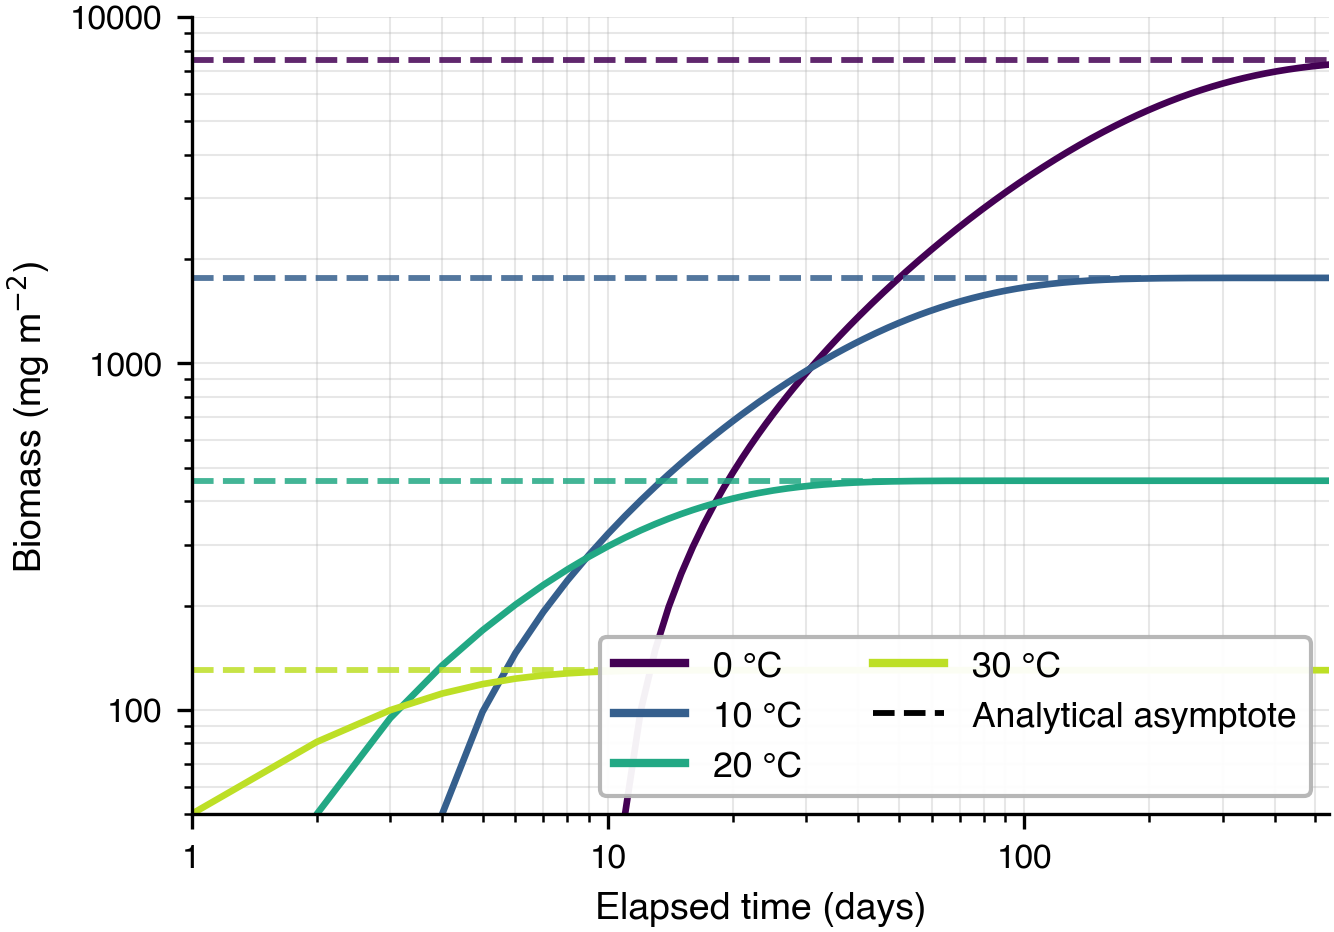
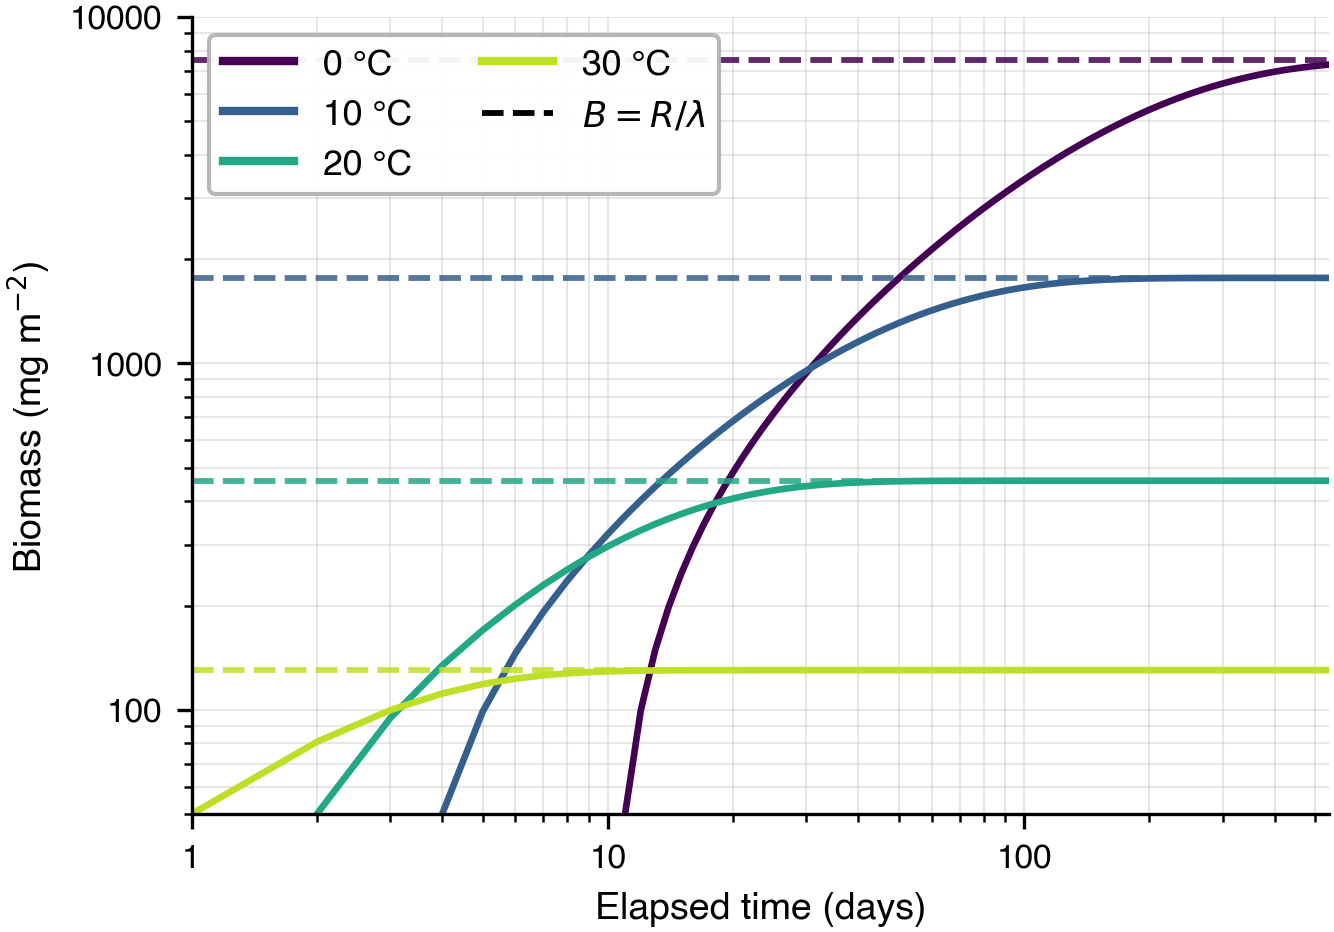
Figure 3: legend top-left + label the asymptote as B = R/lambda

Changed region(s): [[0.4303, 0.6534, 0.9835, 0.8712], [0.1537, 0.0311, 0.5532, 0.2178]]

diff --git a/scripts/figures/fig03_benchmark.py b/scripts/figures/fig03_benchmark.py
@@ -125,8 +125,8 @@ ax.grid(True, which="both", alpha=0.3, linewidth=0.5)
 
 # Legend: colour = temperature, dashed = analytical asymptote.
 colour_handles = [Line2D([0], [0], color=c, lw=2, label=f"{t} °C") for t, c in zip(temperatures, colors, strict=True)]
-asymptote_handle = Line2D([0], [0], color="black", lw=1.4, ls="--", label="Analytical asymptote")
-ax.legend(handles=[*colour_handles, asymptote_handle], loc="lower right", ncol=2,
+asymptote_handle = Line2D([0], [0], color="black", lw=1.4, ls="--", label=r"$B = R/\lambda$")
+ax.legend(handles=[*colour_handles, asymptote_handle], loc="upper left", ncol=2,
           frameon=True, framealpha=0.95, facecolor="white", edgecolor="0.7")
 
 fig.tight_layout()
